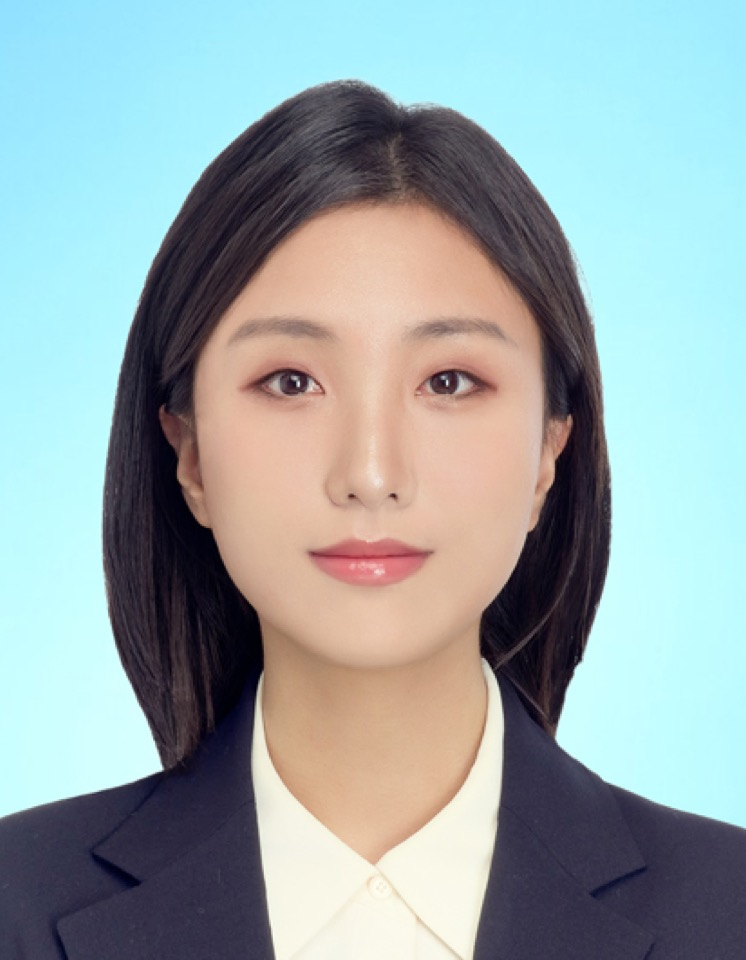
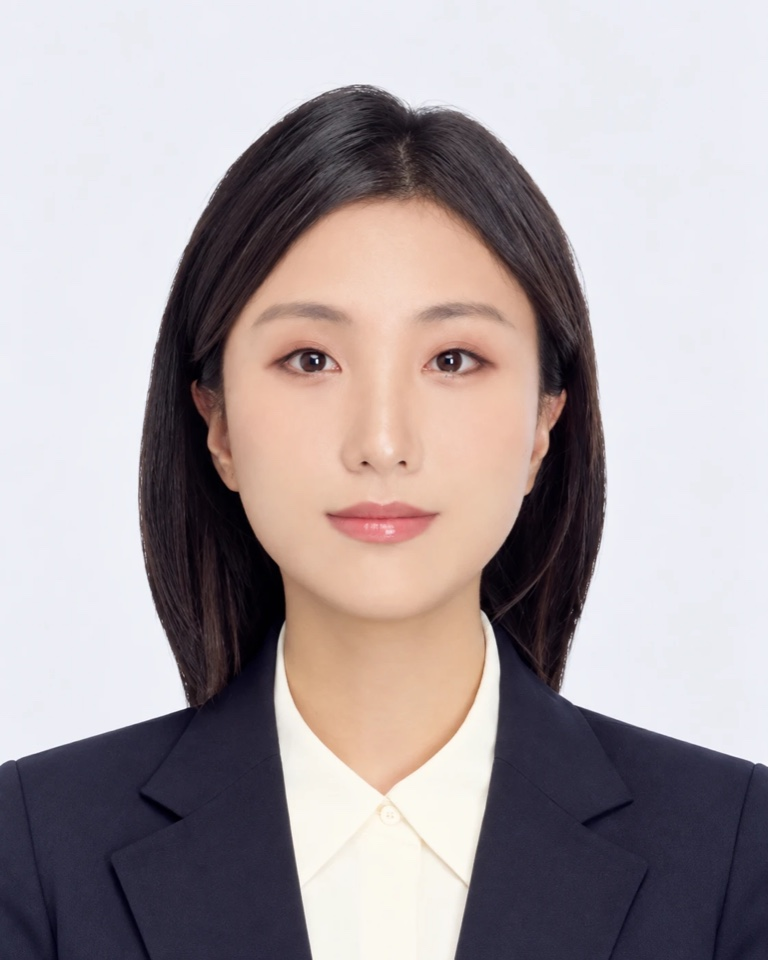
팀원 3인 증명사진 보정본으로 교체(배경 통일, 어깨선 정리)

diff --git a/index.html b/index.html
@@ -7,7 +7,7 @@
 <meta name="description" data-i18n-attr="content:meta.desc" content="다음에 무엇을 물을지 아는 Doctor Agent. 현업 의사 자문과 함께 회진하듯 검토하며 만드는 팀 Rounds의 N.O.V.A. 2026 팀 소개 페이지">
 <meta name="color-scheme" content="light dark">
 <link rel="stylesheet" href="https://cdn.jsdelivr.net/gh/orioncactus/pretendard@v1.3.9/dist/web/static/pretendard.min.css">
-<link rel="stylesheet" href="assets/style.css?v=10032343">
+<link rel="stylesheet" href="assets/style.css?v=10032358">
 <script>document.documentElement.classList.add("js");</script>
 </head>
 <body>
@@ -244,8 +244,8 @@
   <p>Rounds · 회진 &middot; <a href="https://nova.snubhai.org/" target="_blank" rel="noopener noreferrer">N.O.V.A. 2026</a></p>
 </div></footer>
 
-<script src="assets/i18n.js?v=10032343"></script>
-<script src="members.js?v=10032343"></script>
-<script src="assets/app.js?v=10032343"></script>
+<script src="assets/i18n.js?v=10032358"></script>
+<script src="members.js?v=10032358"></script>
+<script src="assets/app.js?v=10032358"></script>
 </body>
 </html>

diff --git a/assets/app.js b/assets/app.js
@@ -23,7 +23,7 @@
       c.style.setProperty("--d",(i*0.12)+"s");
       var hasPhoto=!!m.photo&&safeUrl(m.photo);
       var ph=el("div",hasPhoto?"photo":"photo avatar");
-      if(hasPhoto){var img=el("img");img.src=m.photo;img.alt=pick(m,"name")+tr("m.photoAlt");img.loading="lazy";ph.appendChild(img)}
+      if(hasPhoto){var img=el("img");img.src=m.photo+"?v=10032358";img.alt=pick(m,"name")+tr("m.photoAlt");img.loading="lazy";ph.appendChild(img)}
       else{var ini=el("span","initial",/^\(/.test(m.name||"")?"Dr":(m.name||"?").charAt(0));ini.setAttribute("aria-hidden","true");ph.appendChild(ini)}
       c.appendChild(ph);
       var b=el("div","body");
